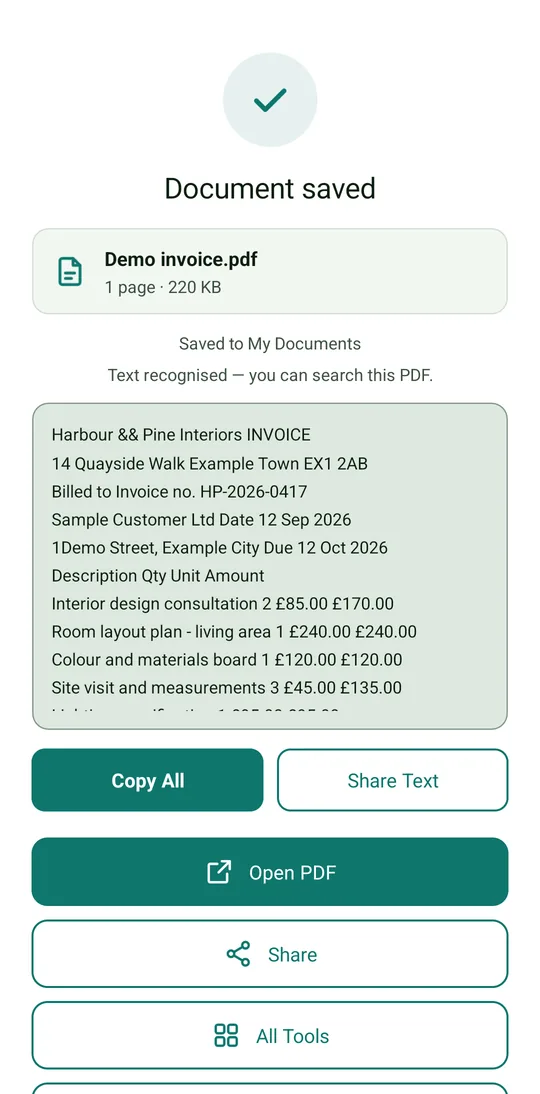
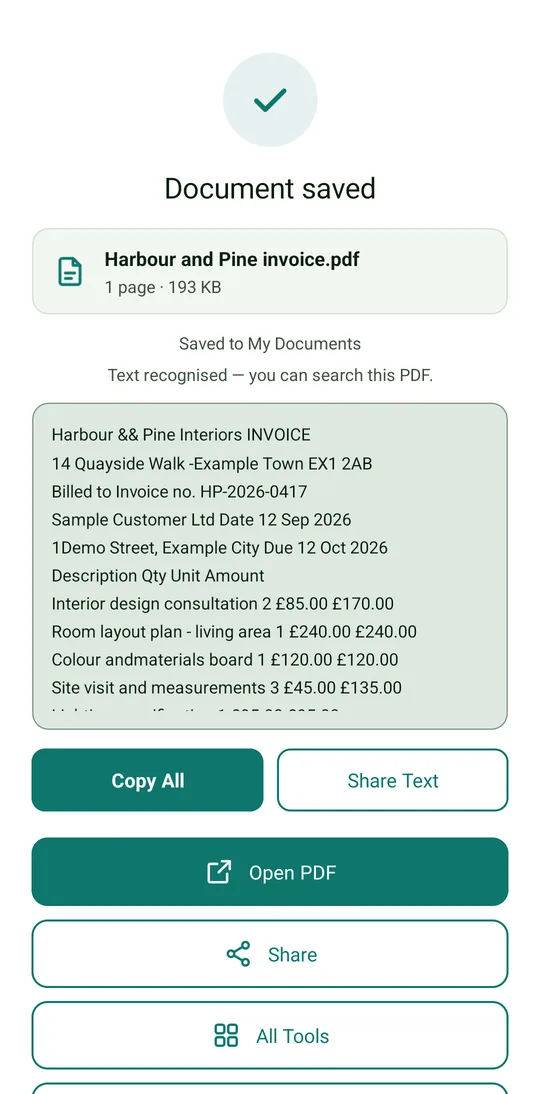
feat(screenshots): fresh captures from the Play-installed v8 app
Real screens from com.greenplant.nexascan versionCode 8 on a Pixel 9, using only the fictional Harbour & Pine demo documents: home, All Tools, the crop editor with the detected page outline, Enhance vs Original of the same page, Save As with searchable PDF, recognised text, Word conversion, OCR text selection and Edit PDF with a signature (Pro, captured on a no-charge licence-tester subscription). Status and gesture bars are cropped by scripts/images.mjs. demo-docs.mjs also writes flat A4 pages for printing, for live-camera captures. The old markup/watermark captures are retired.

Changed region(s): [[0.2074, 0.2176, 0.6815, 0.2797], [0.237, 0.5905, 0.7407, 0.6216], [0.3556, 0.404, 0.6815, 0.4351]]

diff --git a/src/pages/index.html b/src/pages/index.html
@@ -139,8 +139,7 @@
         </ul>
       </div>
       <div class="story-visual reveal reveal-delay-1">
-        <div class="phone phone-sm"><img src="{{root}}assets/screenshots/markup.webp" alt="NexaScan's page editor with a drawn signature on a document" width="540" height="1094" loading="lazy"></div>
-        <div class="phone phone-sm"><img src="{{root}}assets/screenshots/watermark.webp" alt="A watermark being placed across a PDF page" width="540" height="1094" loading="lazy"></div>
+        <div class="phone phone-sm"><img src="{{root}}assets/screenshots/edit-pdf.webp" alt="Edit PDF with a drawn signature placed on an invoice, and tools to sign, add text, draw and watermark" width="540" height="1094" loading="lazy"></div>
       </div>
     </div>
   </div>
